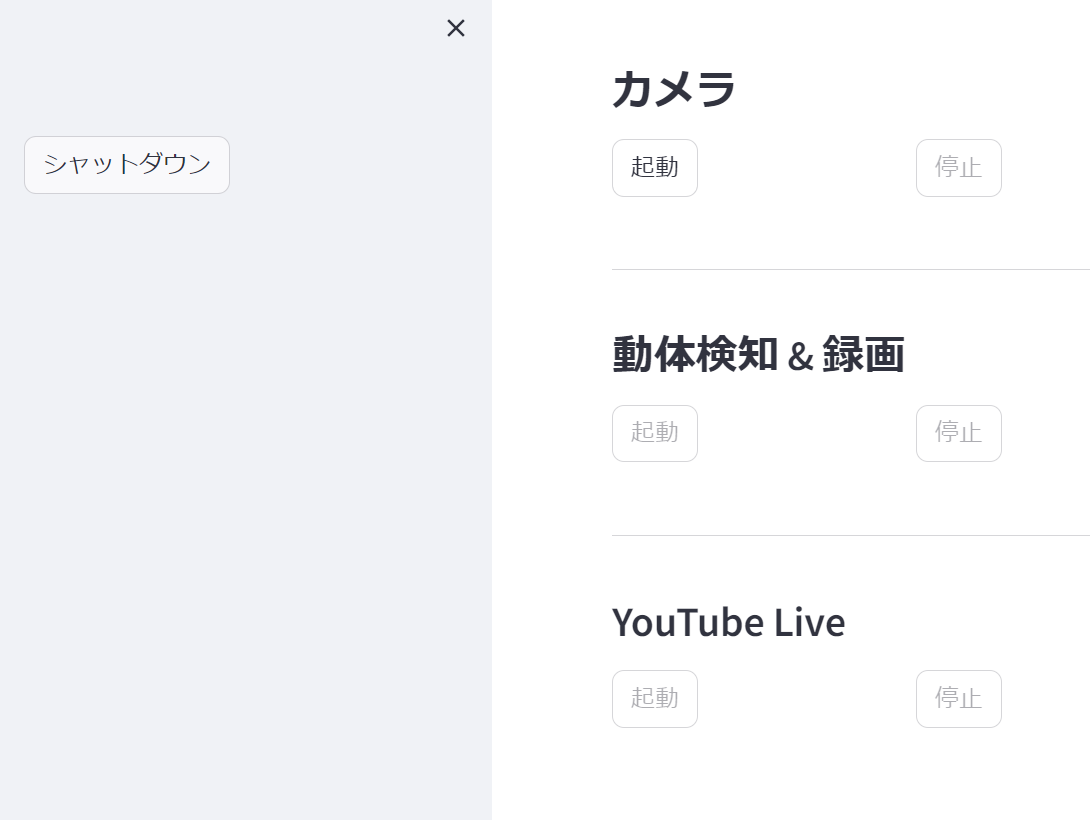
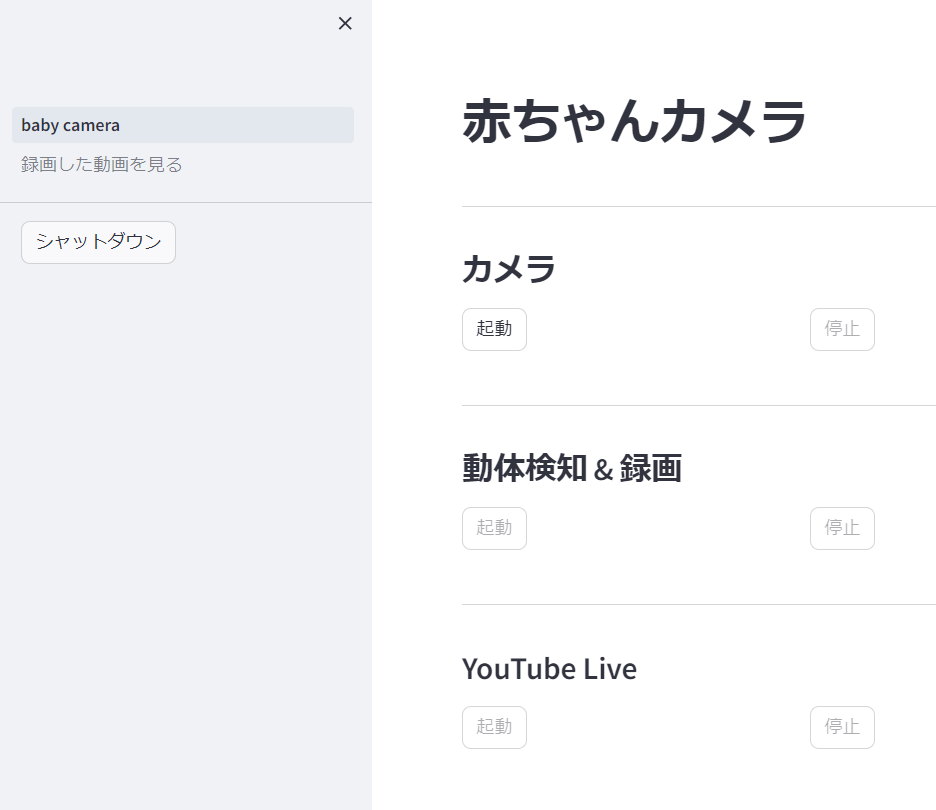
管理画面の更新

diff --git a/pages/録画した動画を見る.py b/pages/録画した動画を見る.py
@@ -1,0 +1,136 @@
+import glob
+import os
+import base64
+from datetime import datetime
+
+import streamlit as st
+import streamlit.components.v1 as components
+
+from shutdown_sidebar import shutdown_sidebar
+
+
+VIDEOS = "./recorded_videos/"
+
+
+def main():
+    # ページの設定
+    st.set_page_config(
+        page_title="赤ちゃんカメラ",
+        page_icon=":baby_symbol:",
+        layout="wide",  # wideレイアウトを指定
+    )
+
+    # タイトル
+    st.title("録画した映像を見る")
+    st.divider()
+
+    # サイドバーに電源オフのボタンをつける
+    shutdown_sidebar()
+
+
+    # 録画した映像を撮影日で分ける
+    list_video_path = sorted(glob.glob(VIDEOS + "*.mp4"), reverse=True)
+    dict_year_month_video = {}
+    for video_path in list_video_path:
+        dt = parse_video_path(video_path)
+        if dt is None:
+            st.warning("%sの読み込みに失敗しました。" % video_path)
+        else:
+            year = str(dt.year) + "年"
+            month = str(dt.month) + "月"
+            if year not in dict_year_month_video:
+                dict_year_month_video[year] = {}
+            if month not in dict_year_month_video[year]:
+                dict_year_month_video[year][month] = []
+            dict_year_month_video[year][month].append((dt, video_path))
+
+    # 画面に一覧を表示
+    list_years = list(dict_year_month_video.keys())
+    if len(list_years) == 0:
+        st.warning("録画した映像はありません。")
+    else:
+        year_tabs = st.tabs(list_years)
+        for i, year_tab in enumerate(year_tabs):
+            year = list_years[i]
+            with year_tab:
+                list_month = list(dict_year_month_video[year].keys())
+                month_tabs = st.tabs(list_month)
+                for j, month_tab in enumerate(month_tabs):
+                    with st.container(height=500):
+                        for k, (dt, video_path) in enumerate(dict_year_month_video[year][month]):
+                            with st.container(border=True):
+                                st.write("%s月%s日%s時%s分%s秒" % (dt.month, dt.day, dt.hour, dt.minute, dt.second))
+                                st.video(video_path, format="video/mp4", start_time=1)
+                                # ダウンロードボタン
+                                dl_button = st.button("ダウンロード", key="dl_button_%s_%s_%s" % (i, j, k))
+                                if dl_button:
+                                    html_dl = trigger_download(video_path, video_path[len(VIDEOS):])
+                                    components.html(html=html_dl, height=0, width=0)
+
+                                # 削除ボタン(確認ボタンつき)
+                                # button in buttonは、セッションを使ってボタンの状態を記憶する
+                                key = "rm_button_%s_%s_%s" % (i, j, k)
+                                key_save = key + "_"
+                                rm_button = st.button("削除", key=key)
+                                if st.session_state.get(key_save) is not True:
+                                    st.session_state[key_save] = rm_button
+                                if st.session_state.get(key_save) is True:
+                                    st.warning("本当に削除しますか?")
+                                    yes_col, no_col = st.columns([1, 5])
+                                    yes_button = yes_col.button("はい", key="yes_button_%s_%s_%s" % (i, j, k))
+                                    no_button = no_col.button("いいえ", key="no_button_%s_%s_%s" % (i, j, k))
+                                    if yes_button:
+                                        os.remove(video_path)
+                                    if yes_button or no_button:
+                                        st.session_state[key_save] = False
+                                        st.rerun()
+
+
+def parse_video_path(video_path):
+    """ファイル名のパース
+
+    ファイル名をパースして撮影日を返す
+
+    Args:
+        video_path (str):
+            ファイル名
+
+    Returns:
+        DateTime: 撮影日
+    """
+    try:
+        template = VIDEOS + "babycamera_%Y-%m-%d_%H.%M.%S.mp4"
+        dt = datetime.strptime(video_path, template)
+        return dt
+    except Exception:
+        return None
+
+
+def trigger_download(video_path, filename):
+    """
+    ダウンロードのトリガー
+
+    Args:
+        video_path (str):
+            ダウンロードする動画ファイルのパス
+        filename (str):
+            ユーザーがダウンロードした時のファイル名
+
+    Returns:
+        str: ダウンロード機能が入ったHTML
+    """
+    with open(video_path, "rb") as f:
+        data = f.read()
+
+    b64 = base64.b64encode(data).decode()
+    dl_link = f"""
+                <script src="http://code.jquery.com/jquery-3.2.1.min.js"></script>
+                <script>
+                $('<a href="data:application/octet-stream;base64,{b64}" download="{filename}">')[0].click()
+                </script>
+                """
+    return dl_link
+
+
+if __name__ == "__main__":
+    main()

diff --git a/baby_camera.py b/baby_camera.py
@@ -1,10 +1,10 @@
 import subprocess
+import yaml
 
 import streamlit as st
 
+from shutdown_sidebar import shutdown_sidebar
 
-# カメラ(WebRTC)へのリンク
-CAMERA_LINK = "http://raspberrypi.local:8889/baby_camera/"
 
 # 各サービス名を表す文字列
 SERVICE_CAMERA = "camera"
@@ -18,6 +18,9 @@ DICT_COMPOSE_FILE = {
     SERVICE_YOUTUBE_LIVE: "docker-compose_youtube_live.yml"
 }
 
+# カメラ(WebRTC)へのリンク
+CAMERA_LINK = "http://raspberrypi.local:8889/baby_camera/"
+
 
 def main():
     # ページの設定
@@ -29,14 +32,14 @@ def main():
 
     # サービスの起動・停止状態の初期化
     list_service = [
-        # (サービス, コンテナ数)
-        (SERVICE_CAMERA, 3),
-        (SERVICE_MOTION_DETECTION, 1),
-        (SERVICE_YOUTUBE_LIVE, 1)
+        SERVICE_CAMERA,
+        SERVICE_MOTION_DETECTION,
+        SERVICE_YOUTUBE_LIVE
     ]
-    for service, ncontainer in list_service:
+    list_active_containers = get_active_containers()
+    for service in list_service:
         if service not in st.session_state:
-            if count_active_container(DICT_COMPOSE_FILE[service]) == ncontainer:
+            if is_all_container_active(DICT_COMPOSE_FILE[service], list_active_containers):
                 st.session_state[service] = True
             else:
                 st.session_state[service] = False
@@ -46,11 +49,7 @@ def main():
     st.divider()
 
     # サイドバーに電源オフのボタンをつける
-    shutdown = st.sidebar.button("シャットダウン")
-    if shutdown:
-        cmd = "shutdown -h now"
-        st.sidebar.markdown("シャットダウンします...")
-        subprocess.check_output(cmd, shell=True).decode().rstrip()
+    shutdown_sidebar()
 
     st.markdown("### カメラ")
     # カメラ起動済みならリンクをはる
@@ -130,7 +129,27 @@ def main():
         st.rerun()
 
 
-def count_active_container(compose_file="docker-compose.yml"):
+def get_active_containers():
+    """アクティブなコンテナの一覧を返す
+
+    Args:
+        なし
+
+    Returns:
+        list(str):
+            アクティブなコンテナ名
+    """
+    # アクティブなコンテナ名
+    cmd = 'docker ps --format "{{.Names}}"'
+    ret = subprocess.check_output(cmd, shell=True).decode().rstrip()
+    if ret == "":
+        list_active_containers = []
+    else:
+        list_active_containers = ret.split("\n")
+    return list_active_containers
+
+
+def is_all_container_active(compose_file, list_active_containers):
     """docker-compose.ymlで定義したコンテナのうちアクティブなものの数を数える
 
     Args:
@@ -139,12 +158,16 @@ def count_active_container(compose_file="docker-compose.yml"):
     Returns:
         int: コンテナ数
     """
-    cmd = 'docker-compose -f %s ps --services --filter "status=running"' % compose_file
-    ret = subprocess.check_output(cmd, shell=True).decode().rstrip()
-    if ret == "":
-        return 0
+    with open(compose_file) as f:
+        compose = yaml.safe_load(f)
+    list_container_name = []
+    for v in compose["services"].values():
+        list_container_name.append(v["container_name"])
+
+    if set(list_container_name) <= set(list_active_containers):
+        return True
     else:
-        return len(ret.split("\n"))
+        return False
 
 
 def activate_container(compose_file="docker-compose.yml"):

diff --git a/shutdown_sidebar.py b/shutdown_sidebar.py
@@ -1,0 +1,12 @@
+import subprocess
+
+import streamlit as st
+
+
+def shutdown_sidebar():
+    # サイドバーに電源オフのボタンをつける
+    shutdown = st.sidebar.button("シャットダウン")
+    if shutdown:
+        cmd = "shutdown -h now"
+        st.sidebar.markdown("シャットダウンします...")
+        subprocess.check_output(cmd, shell=True).decode().rstrip()
